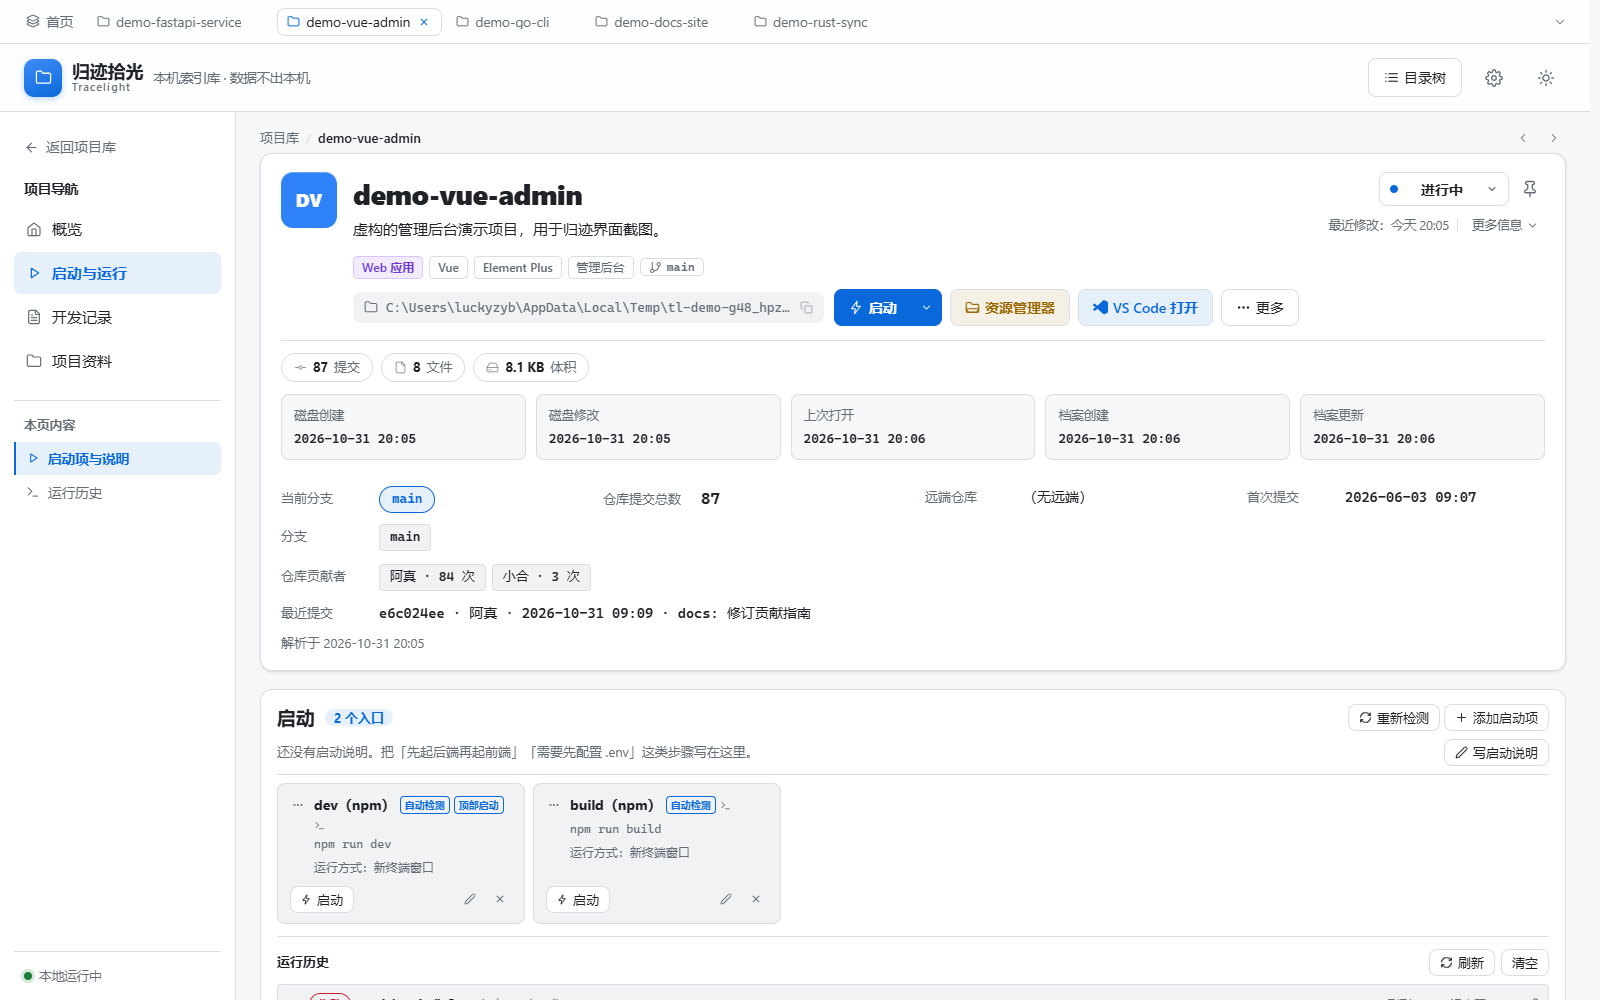
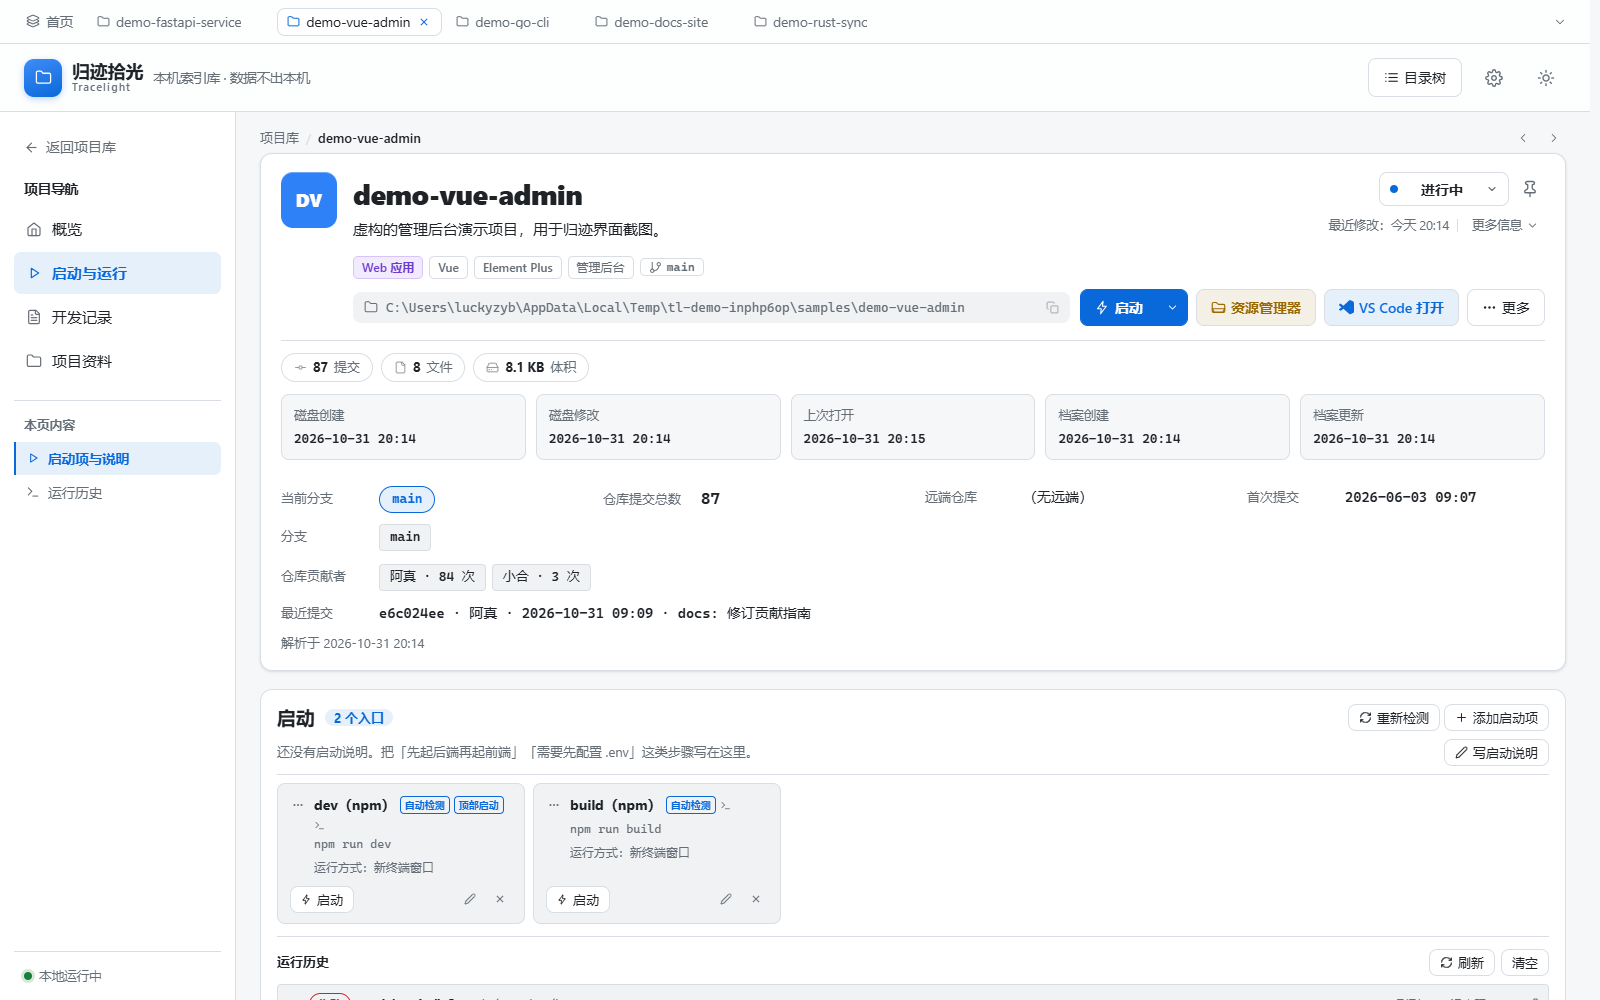
feat: 详情页路径行升级为卡片级整行，按钮右贴边、路径加长对齐标题

Changed region(s): [[0.5, 0.279, 0.9688, 0.341]]

diff --git a/app/static/project.html b/app/static/project.html
@@ -151,6 +151,33 @@
               <tl-icon name="branch" :size="13"></tl-icon>{{ headBranch }}
             </span>
           </div>
+        </div>
+        <div class="head-side">
+          <div class="head-side-top">
+            <span class="head-status">
+              <tl-select v-model="p.status" :options="statuses"
+                         @update:model-value="saveStatus"></tl-select>
+            </span>
+            <button type="button" class="icon-btn head-pin" :class="{ on: p.pinned }"
+                    :title="p.pinned ? '取消置顶' : '置顶项目'" :aria-label="p.pinned ? '取消置顶' : '置顶项目'"
+                    @click="togglePin">
+              <tl-icon name="pin" :size="18"></tl-icon>
+            </button>
+          </div>
+          <div class="head-meta-row">
+            <span class="head-updated" :title="'磁盘最后修改：' + fmtTime(p.fs_modified)">
+              最近修改：{{ headModifiedText }}
+            </span>
+            <span class="head-meta-sep" aria-hidden="true"></span>
+            <button type="button" class="head-more-toggle" @click="toggleHeadMore"
+                    :aria-expanded="headMoreOpen ? 'true' : 'false'" aria-controls="head-more">
+              更多信息
+              <tl-icon name="chevron-down" :size="13" class="head-more-chev"
+                       :class="{ folded: !headMoreOpen }"></tl-icon>
+            </button>
+          </div>
+        </div>
+      </div>
           <!-- 路径与操作按钮同行：路径弹性填充，按钮靠右 -->
           <div class="head-path-row">
             <button class="proj-card-path head-path" type="button" @click="copyText(p.path)"
@@ -224,33 +251,6 @@
               </span>
             </div>
           </div>
-        </div>
-        <div class="head-side">
-          <div class="head-side-top">
-            <span class="head-status">
-              <tl-select v-model="p.status" :options="statuses"
-                         @update:model-value="saveStatus"></tl-select>
-            </span>
-            <button type="button" class="icon-btn head-pin" :class="{ on: p.pinned }"
-                    :title="p.pinned ? '取消置顶' : '置顶项目'" :aria-label="p.pinned ? '取消置顶' : '置顶项目'"
-                    @click="togglePin">
-              <tl-icon name="pin" :size="18"></tl-icon>
-            </button>
-          </div>
-          <div class="head-meta-row">
-            <span class="head-updated" :title="'磁盘最后修改：' + fmtTime(p.fs_modified)">
-              最近修改：{{ headModifiedText }}
-            </span>
-            <span class="head-meta-sep" aria-hidden="true"></span>
-            <button type="button" class="head-more-toggle" @click="toggleHeadMore"
-                    :aria-expanded="headMoreOpen ? 'true' : 'false'" aria-controls="head-more">
-              更多信息
-              <tl-icon name="chevron-down" :size="13" class="head-more-chev"
-                       :class="{ folded: !headMoreOpen }"></tl-icon>
-            </button>
-          </div>
-        </div>
-      </div>
 
       <!-- 更多信息：创建/更新时间、完整 Git 元信息，收起时不占正文高度 -->
       <div class="head-more" id="head-more" v-show="headMoreOpen">

diff --git a/app/static/css/style.css b/app/static/css/style.css
@@ -1578,10 +1578,12 @@ body.modal-open { overflow: hidden; }
 .head-more-toggle:hover { color: var(--accent); background: var(--accent-soft); }
 .head-more-chev { transition: transform .18s ease; }
 .head-more-chev.folded { transform: rotate(-90deg); }
-/* 路径与操作按钮同行：路径弹性填充，按钮靠右；空间不足时按钮换行到路径下方 */
+/* 路径与操作按钮同行（卡片级整行）：路径弹性填充，按钮顶到卡片右缘；
+   左缩进与标题对齐（Logo 56 + 间距 16），窄屏换行铺满 */
 .head-path-row {
   display: flex; align-items: center; gap: 10px;
   margin-top: 10px; min-width: 0; flex-wrap: wrap;
+  padding-left: 72px;
 }
 .head-path {
   flex: 1 1 260px; width: auto; max-width: none; margin: 0;
@@ -1626,7 +1628,8 @@ body.modal-open { overflow: hidden; }
   .head-side { flex-wrap: wrap; gap: 6px; }
   .head-status { margin-left: 0; }
   .head-summary { white-space: normal; }
-  /* 窄屏：路径独占一行，操作按钮换行铺满 */
+  /* 窄屏：路径独占一行，操作按钮换行铺满；缩进随 Logo 缩小 */
+  .head-path-row { padding-left: 59px; }
   .head-path { flex: 1 1 100%; }
   .head-actions { flex: 1 1 100%; }
   .head-actions .more-wrap { flex: 1 1 auto; display: flex; }
